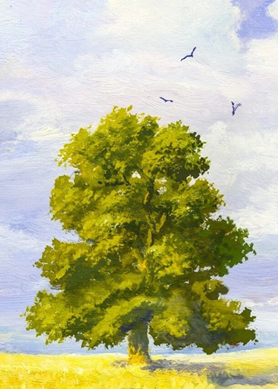
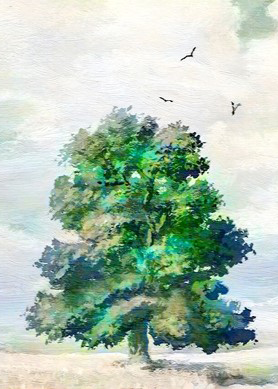
更换图片，导航跳转

diff --git a/index.js b/index.js
@@ -149,6 +149,27 @@ $(function(){
     })
 
 
+    //Product 入场动画
+	/*
+    $(".smallPicBox").css({opacity:0});
+
+    $(window).scroll(function() {
+        //为了保证兼容性，这里取两个值，哪个有值取哪一个
+        var scrollTop = document.documentElement.scrollTop || document.body.scrollTop;
+        var browHeight = document.documentElement.offsetHeight || document.body.offsetHeight;
+
+        halfH=$(".smallPicBox").css("height").substring(0,6);
+        H=$(".smallPicBox").offset().top+parseFloat(halfH);
+        console.log("scrollTop:"+scrollTop);
+        console.log("browHeight:"+browHeight);
+        console.log("H:"+H);
+        if(scrollTop+browHeight>H){
+            $(".smallPicBox").animate({opacity:1});
+        }
+    })*/
+
+
+
 });
 
 

diff --git a/index.html b/index.html
@@ -98,7 +98,7 @@
     </div>
 
     <div class="smallPicBox">
-        <img src="img/bs.jpg" alt="" class="smallPic1"><!--
+        <img src="img/bs.png" alt="" class="smallPic1"><!--
      --><img src="img/fb.jpg" alt="" class="smallPic2"><!--
      --><img src="img/quZao2.jpg" alt="" class="smallPic3">
     </div>
